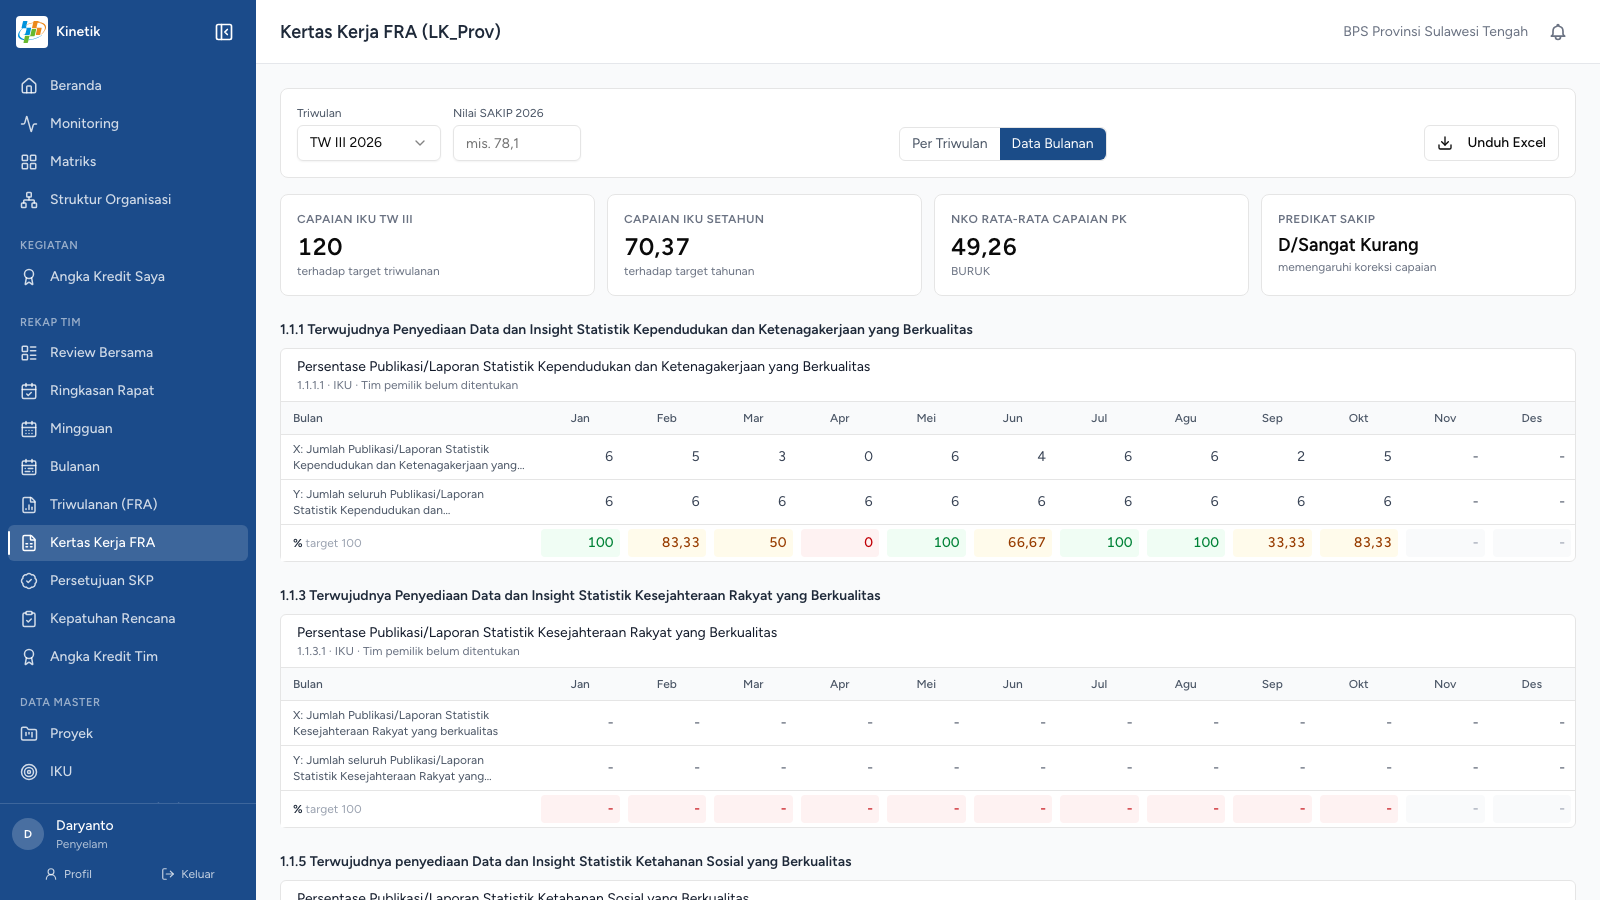
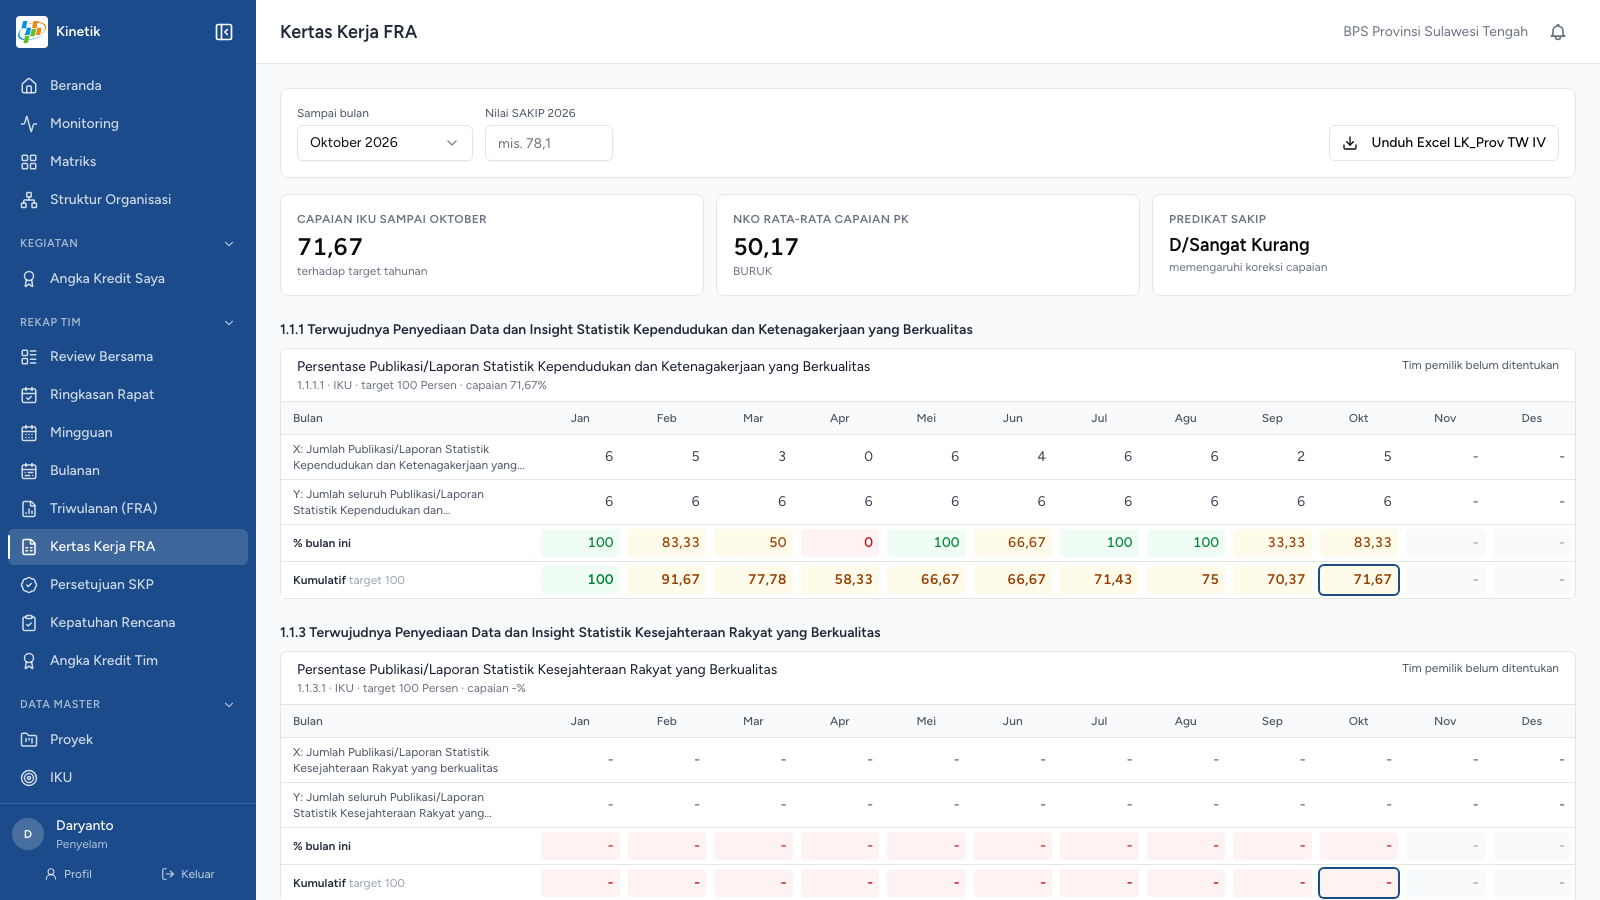
FRA slide: fully monthly, replaces the quarterly slide

diff --git a/components/shotData.ts b/components/shotData.ts
@@ -131,9 +131,10 @@ export const shots: Record<string, ShotDef> = {
         "src": "/shots/fra-bulanan.png",
         "url": "kinetik.bpssulteng.id (contoh data)",
         "steps": [
-            {"n": 1, "x": 69, "y": 15, "text": "Pilih tampilan Data bulanan."},
-            {"n": 2, "x": 45, "y": 51, "text": "X dan Y tiap bulan, diisi PJ tim pemilik."},
-            {"n": 3, "x": 52, "y": 60, "text": "Persen otomatis: hijau tercapai, kuning belum, merah kosong."}
+            {"n": 1, "x": 21, "y": 27, "text": "Pilih sampai bulan berapa. Kartu di atas ikut berubah."},
+            {"n": 2, "x": 45, "y": 52, "text": "X dan Y tiap bulan, diisi PJ tim pemilik."},
+            {"n": 3, "x": 52, "y": 62, "text": "Persen bulan itu: hijau tercapai, kuning belum, merah kosong."},
+            {"n": 4, "x": 68, "y": 64, "text": "Kumulatif dari Januari terhadap target tahunan. Bingkai menandai bulan terpilih."}
         ]
     },
     "member-beranda": {

diff --git a/pages/26d-fra-data-bulanan.md b/pages/26d-fra-data-bulanan.md
@@ -1,12 +1,13 @@
-# Kertas Kerja FRA: data bulanan
+# Kertas Kerja FRA: sepenuhnya bulanan
 
-<span v-click="1"></span><span v-click="2"></span><span v-click="3"></span>
+<span v-click="1"></span><span v-click="2"></span><span v-click="3"></span><span v-click="4"></span>
 
 <Shot id="fra-bulanan" :clicks="$clicks" />
 
 <!--
-Selain per triwulan, FRA sekarang bisa diisi per bulan, seperti tabel Data Monitoring.
-[click] Pertama, pilih tampilan Data bulanan.
-[click] Kedua, PJ tim pemilik mengisi X dan Y tiap bulan. Realisasi triwulan dihitung dari bulan yang sudah diisi.
-[click] Ketiga, persen dihitung otomatis dan berwarna: hijau bila target tercapai, kuning bila belum, merah bila kosong pada bulan yang sudah lewat.
+Kertas Kerja FRA sekarang sepenuhnya bulanan, seperti tabel Data Monitoring. Tampilan triwulanan dan form triwulanan dihapus.
+[click] Pertama, pilih sampai bulan berapa. Kartu capaian dan NKO di atas mengikuti bulan itu.
+[click] Kedua, PJ tim pemilik mengisi X dan Y tiap bulan.
+[click] Ketiga, persen bulan itu dihitung otomatis dan berwarna: hijau bila target tercapai, kuning bila belum, merah bila kosong pada bulan yang sudah lewat.
+[click] Keempat, baris kumulatif menunjukkan capaian dari Januari terhadap target tahunan. File Excel LK_Prov untuk Kantor Pusat tetap triwulanan, dan disusun otomatis dari data bulanan.
 -->

diff --git a/slides.md b/slides.md
@@ -135,8 +135,6 @@ src: ./pages/25a-angka-kredit-cara-hitung.md
 ---
 
 ---
-src: ./pages/26-pimpinan-4-4-kertas-kerja-fra.md
----
 src: ./pages/26d-fra-data-bulanan.md
 ---
 
